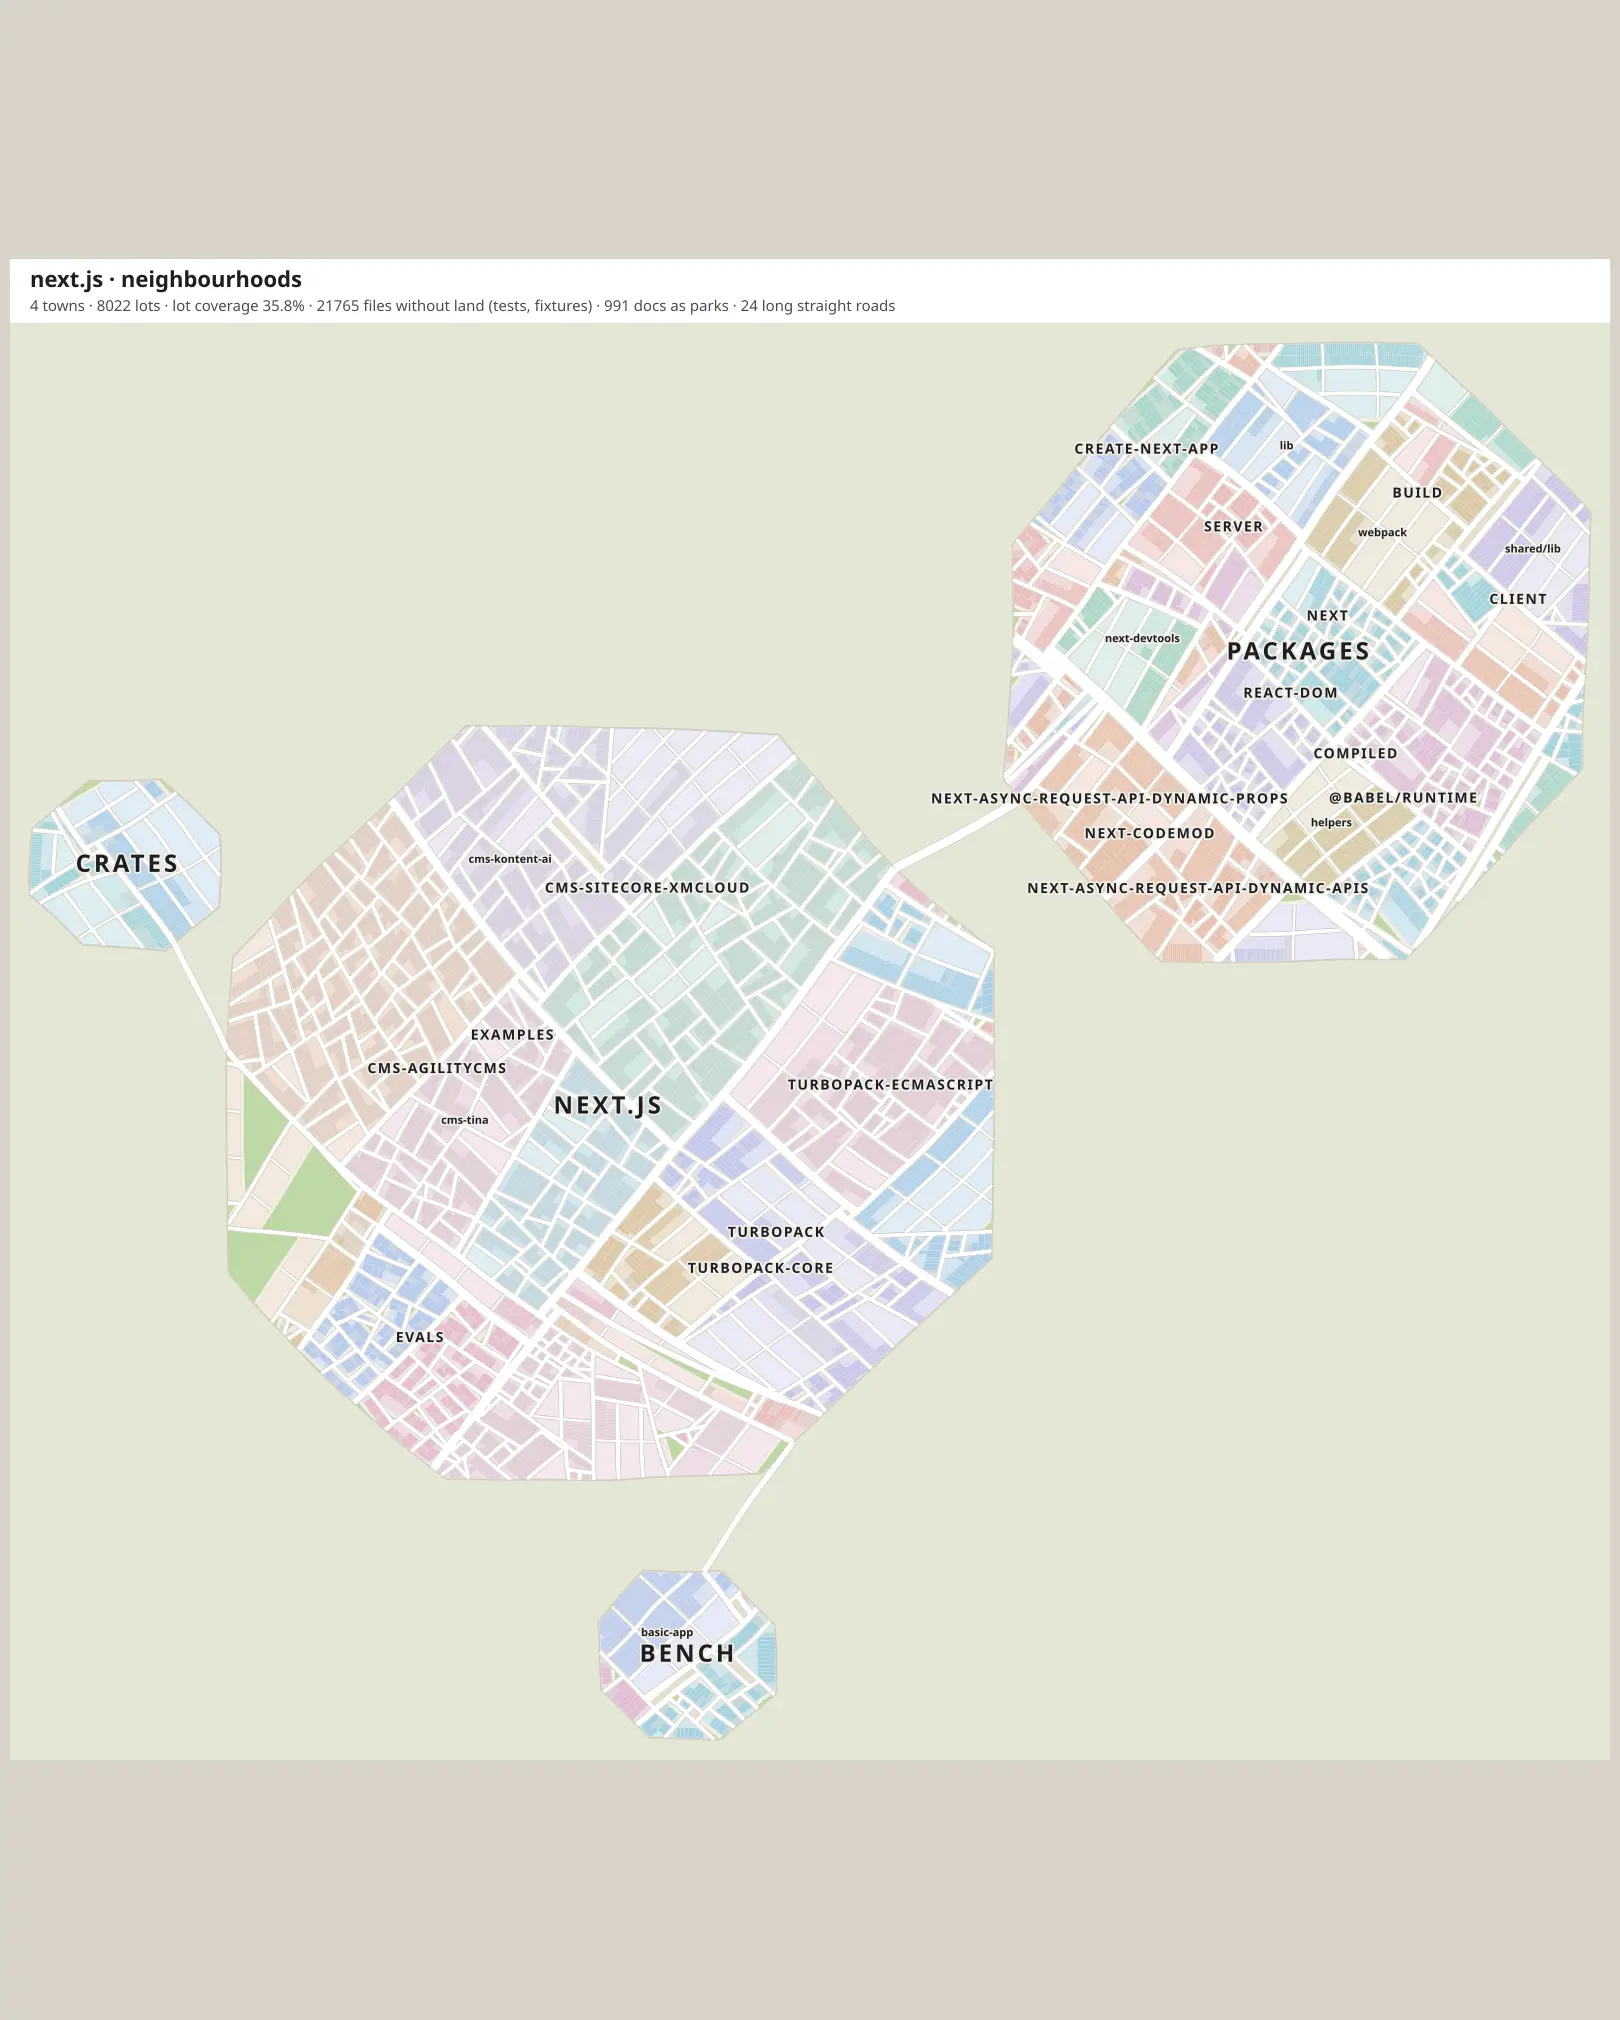
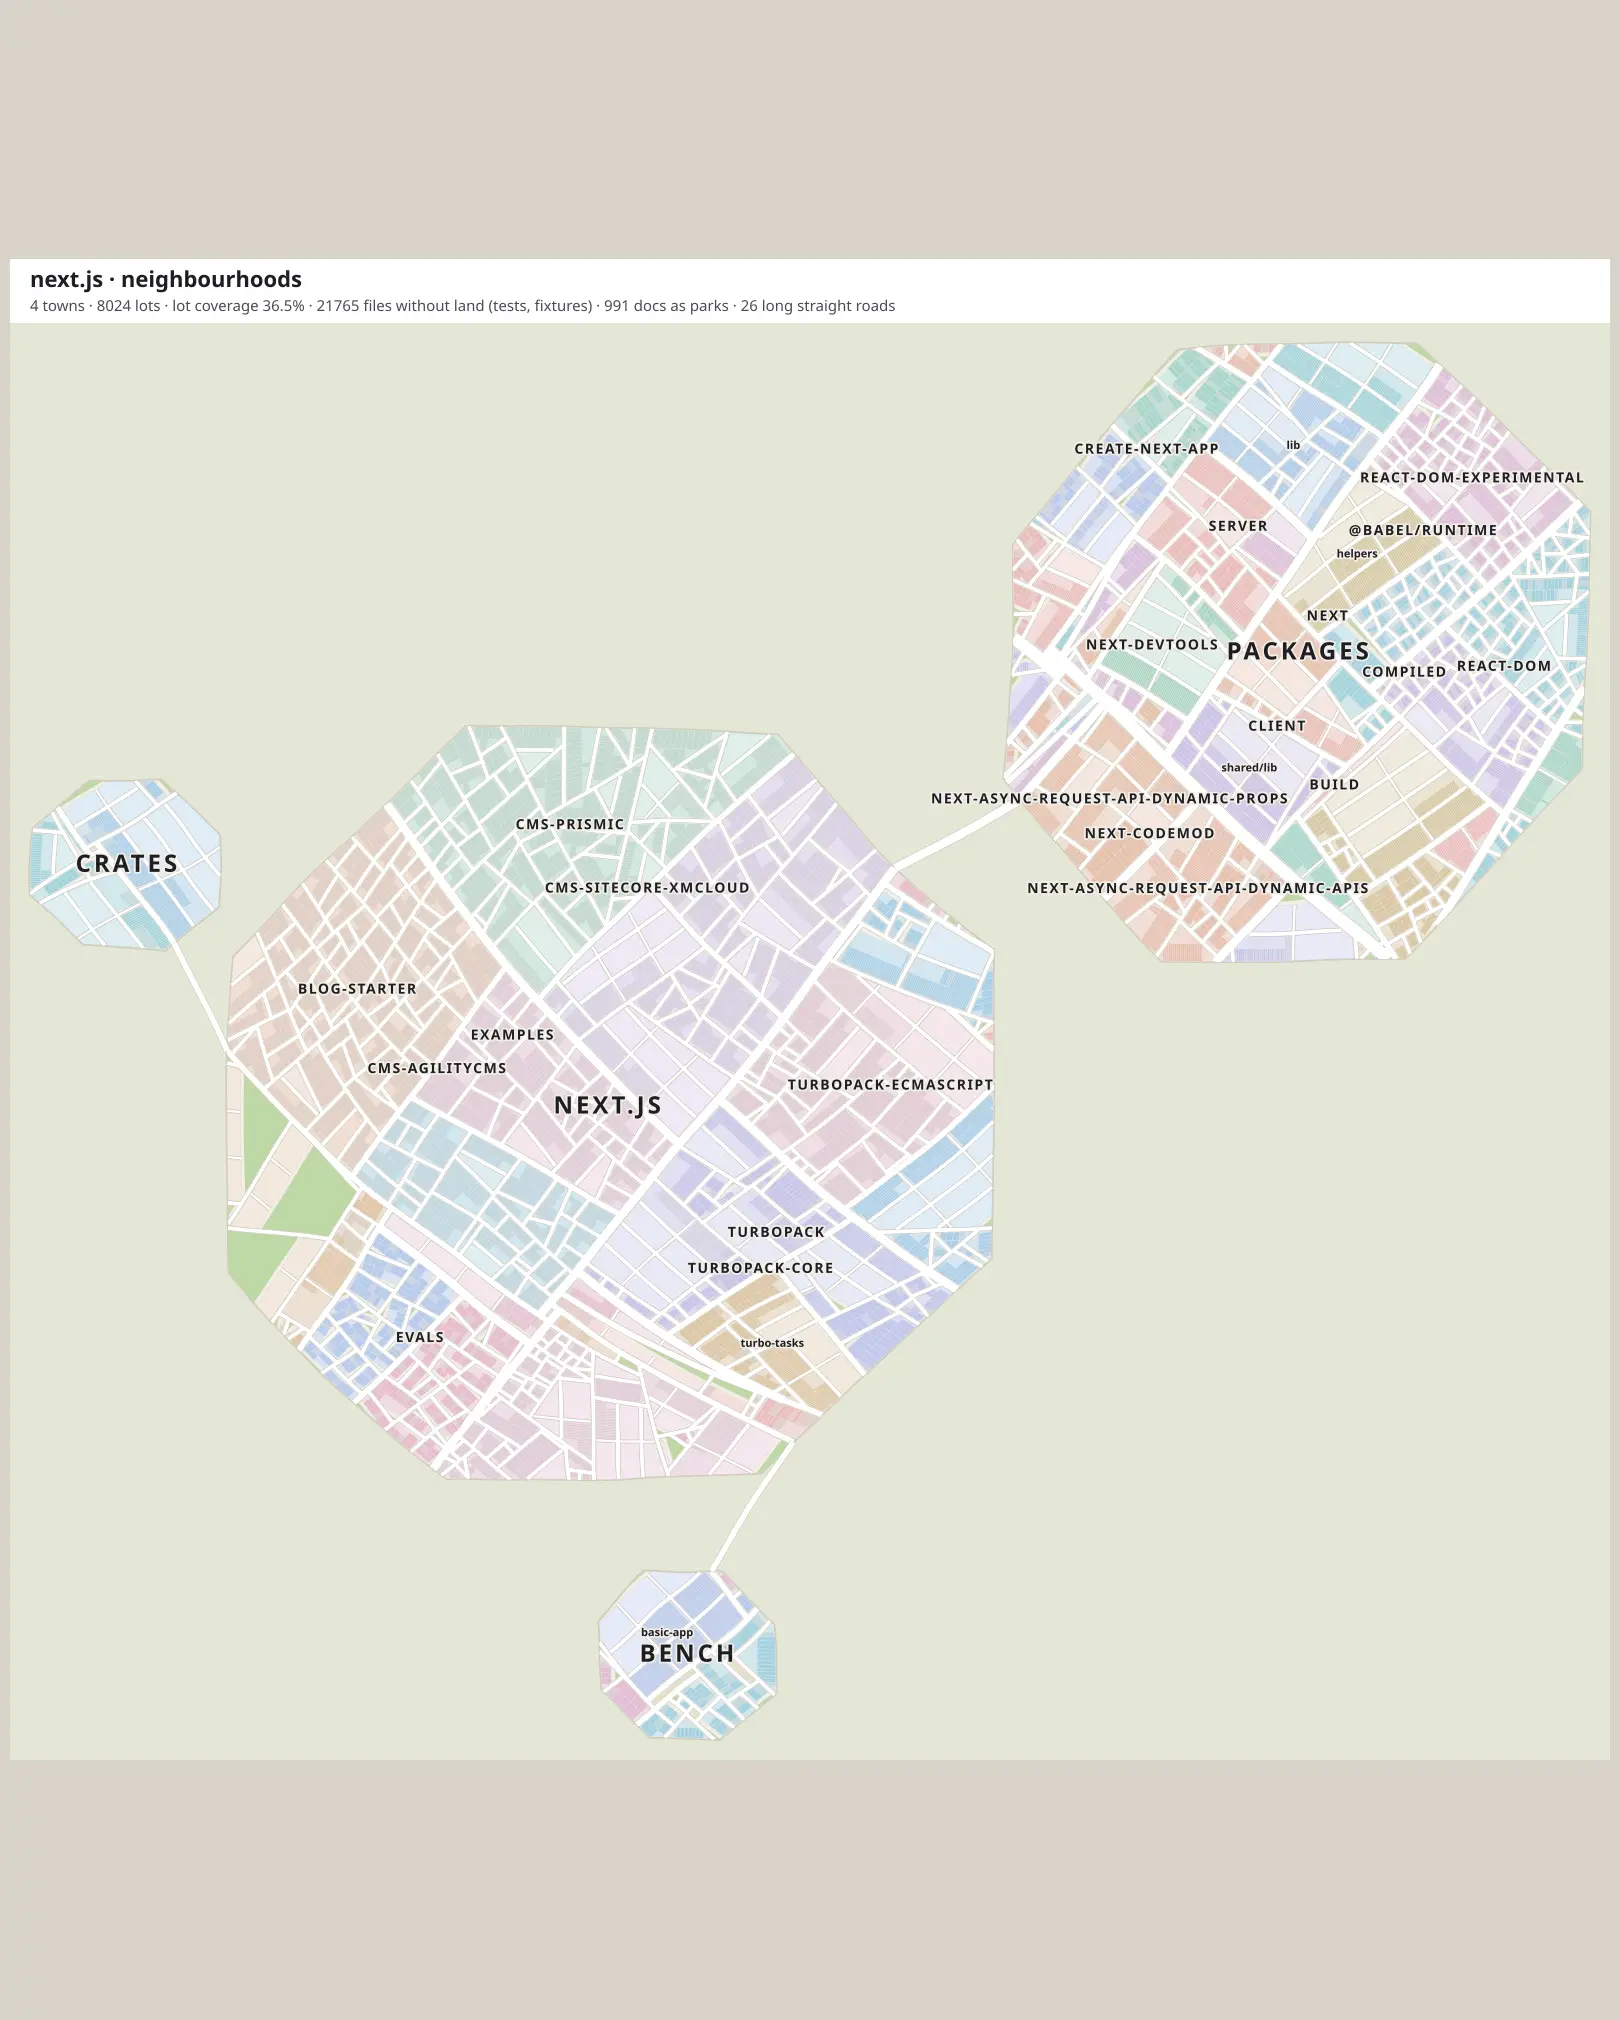
Jog only top-level cuts by default

Changed region(s): [[0.1235, 0.3431, 0.6173, 0.7173], [0.6481, 0.1559, 0.9877, 0.4678], [0.3704, 0.7485, 0.463, 0.8421]]

diff --git a/docs/research/city-layout/variants/town.ts b/docs/research/city-layout/variants/town.ts
@@ -113,8 +113,8 @@ export interface Options {
   /** The land dimension: land uses that take no land (tests and fixtures by default). */
   noLand: LandUse[];
   order: "centre-out" | "first-seen";
-  /** Jogging cuts: long cuts whose sides split again become pinwheels round a plaza. */
-  jog: boolean;
+  /** Jogging cuts: long cuts whose sides split again become pinwheels round a plaza; everywhere or top-level only. */
+  jog: "off" | "top-level" | "all";
   warp: boolean;
 }
 
@@ -510,7 +510,9 @@ export function layoutTown(
     district: string,
   ): boolean => {
     const { rec: r, left, right } = decision;
-    if (!options.jog || left.length < 2 || right.length < 2) return false;
+    if (options.jog === "off" || left.length < 2 || right.length < 2) return false;
+    // Top-level cuts divide the town's top-level folders: the root's own cuts, before any child folder's.
+    if (options.jog === "top-level" && !(key === root.path || key.startsWith(`${root.path}>`))) return false;
     const seg = chord(poly.p, r.nx, r.ny, r.c);
     const diameter = 2 * Math.sqrt(town.stats.landArea / Math.PI);
     if (!seg || Math.hypot(seg[1].x - seg[0].x, seg[1].y - seg[0].y) < LONG_CUT * diameter) return false;

diff --git a/docs/research/city-layout/variants/towns.ts b/docs/research/city-layout/variants/towns.ts
@@ -18,7 +18,7 @@ const PRIVATE = new Set(
         .filter(Boolean)
     : [],
 );
-const BASE: Options = { density: 0.5, order: "centre-out", warp: true, jog: true, noLand: DEFAULT_NO_LAND };
+const BASE: Options = { density: 0.5, order: "centre-out", warp: true, jog: "top-level", noLand: DEFAULT_NO_LAND };
 
 interface Shot {
   caption: string;
@@ -68,8 +68,9 @@ const SECTIONS: Record<string, { repos: string[]; shots: Shot[] }> = {
   jog: {
     repos: ["next.js", "react", "home-assistant", "takken.io"],
     shots: [
-      { caption: "straight cuts (STATE A)", options: { ...BASE, jog: false }, camera: "plan" },
-      { caption: "jogging cuts (pinwheels round plazas)", options: BASE, camera: "plan" },
+      { caption: "straight cuts (STATE A)", options: { ...BASE, jog: "off" }, camera: "plan" },
+      { caption: "top-level cuts jog", options: BASE, camera: "plan" },
+      { caption: "every long cut jogs", options: { ...BASE, jog: "all" }, camera: "plan" },
     ],
   },
   hero: {

diff --git a/docs/research/city-layout/variants/history.ts b/docs/research/city-layout/variants/history.ts
@@ -332,7 +332,7 @@ if (stepMode) {
               live.map((f) => f.path),
             ),
           },
-          { density: 0.5, order: "centre-out", warp: true, jog: true, noLand: ["tests", "fixtures"] },
+          { density: 0.5, order: "centre-out", warp: true, jog: "top-level", noLand: ["tests", "fixtures"] },
           mode === "plat" ? regionPlat : emptyRegionPlat(),
         );
         const liveLots = region.towns.flatMap((town) => town.lots.filter((l) => !l.vacant));
@@ -432,7 +432,7 @@ if (filmMode) {
     density: 0.5,
     order: "centre-out" as const,
     warp: true,
-    jog: true,
+    jog: "top-level" as const,
     noLand: ["tests", "fixtures"] as LandUse[],
   };
   for (const frame of frames) {

diff --git a/docs/research/city-layout/variants/README.md b/docs/research/city-layout/variants/README.md
@@ -44,16 +44,16 @@ Sheets: `img/towns-towns-<repo>.webp` (plan), `img/towns-density-<repo>.webp` (3
 
 | Repo           | Lots   | Lot coverage of land | Local street share | Long straight roads | Lots without room |
 | -------------- | ------ | -------------------- | ------------------ | ------------------- | ----------------- |
-| takken.io      | 244    | 21.8%                | 88%                | 9                   | 0                 |
-| react          | 2,019  | 39.1%                | 76%                | 10                  | 5                 |
-| redux          | 92     | 17.2%                | 80%                | 5                   | 0                 |
-| next.js        | 8,032  | 37.5%                | 81%                | 24                  | 8                 |
-| game-ci-cli    | 702    | 28%                  | 80%                | 6                   | 0                 |
-| livediagram    | 4,121  | 36.3%                | 74%                | 9                   | 10                |
-| studio-worker  | 101    | 27.7%                | 100%               | 3                   | 0                 |
-| home-assistant | 13,198 | 45%                  | 80%                | 2                   | 8                 |
-| typescript     | 929    | 38.5%                | 80%                | 8                   | 1                 |
-| rust           | 6,237  | 31.3%                | 72%                | 3                   | 23                |
+| takken.io      | 244    | 22.1%                | 88%                | 9                   | 0                 |
+| react          | 2,018  | 35.5%                | 75%                | 7                   | 6                 |
+| redux          | 92     | 13.2%                | 80%                | 5                   | 0                 |
+| next.js        | 8,024  | 36.5%                | 80%                | 26                  | 16                |
+| game-ci-cli    | 702    | 26%                  | 80%                | 7                   | 0                 |
+| livediagram    | 4,122  | 36.9%                | 72%                | 11                  | 9                 |
+| studio-worker  | 101    | 26.1%                | 100%               | 3                   | 0                 |
+| home-assistant | 13,193 | 43.7%                | 80%                | 3                   | 13                |
+| typescript     | 929    | 37.6%                | 80%                | 8                   | 1                 |
+| rust           | 6,243  | 29%                  | 71%                | 5                   | 17                |
 
 "Long straight roads" counts roads longer than 45% of their town's diameter that stay within 0.5% of a straight line.
 Small towns still have too many: the warp bends less than a cut is long, and every cut runs wall to wall.
@@ -82,7 +82,7 @@ Stability, share of surviving lots that moved more than 2 units, per first-paren
 What still moves:
 
 - **Cuts outgrowing their band.** Every cut that moved sits in the top two folder levels: 19 in takken.io's 239
-  commits, 5 in React's 1,200. The spec's fixed frame says these never move outside an archetype switch.
+  commits, 5 in React's 1,200. The owner chose to let them move with the band rather than freeze them.
 - **Unflattening.** takken.io began as one neighbourhood and re-laid once (2024) when it outgrew the flatten band: an
   archetype switch, which the old-town island rule will keep. Cutting the root from day one instead moved more (1.7%
   per commit, 12.6% on deletions), as tiny districts kept outgrowing their bands.
@@ -90,24 +90,26 @@ What still moves:
 
 ### Jogging cuts
 
-A long cut (at least 30% of the town's diameter) with two or more items on each side becomes a pinwheel: both sides
+A long cut (at least 30% of the town's diameter) with two or more items on each side becomes a pinwheel (by default only
+the cuts between a town's top-level folders, `jog: "top-level"`; `"all"` jogs every long cut): both sides
 split square to it, and where those cross cuts fall at least 2 u apart, the long cut steps 3 u sideways between them.
-Four roads end in T-junctions round a plaza; every piece stays convex. `Options.jog` switches it; the plat remembers
-it through the same cut records. `img/towns-jog-<repo>.webp` sets straight cuts (STATE A) beside jogging cuts.
+Four roads end in T-junctions round a plaza; every piece stays convex. `Options.jog` (`off`, `top-level`, `all`) sets it; the plat remembers
+it through the same cut records. `img/towns-jog-<repo>.webp` sets straight cuts (STATE A), top-level jogs and every long cut jogging side by side.
+Top-level only keeps STATE A's straight streets inside districts and breaks only the cross-town roads.
 
-| Repo           | Pinwheels     | Long straight roads, straight | Long straight roads, jogging |
-| -------------- | ------------- | ----------------------------- | ---------------------------- |
-| next.js        | 13            | 24                            | 24                           |
-| react          | (not counted) | 10                            | 7                            |
-| home-assistant | 5             | 2                             | 5                            |
-| takken.io      | 1             | 9                             | 9                            |
+| Repo           | Long straight roads, straight | Top-level jogs | Every long cut jogs | Lots without room (straight, top-level, all) |
+| -------------- | ----------------------------- | -------------- | ------------------- | -------------------------------------------- |
+| next.js        | 24                            | 26             | 24                  | 8, 16, 18                                    |
+| react          | 10                            | 7              | 7                   | 5, 6, 5                                      |
+| home-assistant | 2                             | 3              | 5                   | 8, 13, 11                                    |
+| takken.io      | 9                             | 9              | 9                   | 0, 0, 0                                      |
 
 - The count barely moves: a pinwheel road still runs from the town edge to just past the middle (about 55% of a
   top-level cut), so one long road becomes two half roads that both pass the 45% threshold.
 - Cuts with a single item on one side (one heavy folder against the rest) cannot pinwheel and stay straight.
 - Forcing the cross cuts square rearranges the districts: jogging changes STATE A's layout as well as its roads.
 - Stability holds: React 0.1% per commit and 1.2% on deleting commits; takken.io 1.2% and 5.9%.
-- Lots without room rise slightly (next.js 8 to 18): the plaza and the step take land from pieces sized without them.
+- Lots without room rise slightly: the plaza and the step take land from pieces sized without them.
 
 ## Sheets
 

diff --git a/docs/specs/006-ground-plan/ground-plan.md b/docs/specs/006-ground-plan/ground-plan.md
@@ -104,14 +104,14 @@ is therefore readable as distance from the core, and newcomers join the edges.
   contiguous run.
 - Chains of folders without land of their own and with a single child collapse into one.
 - Land between collectors or bigger roads is a ward.
-- Long cuts jog. A cut at least 30% of its town's diameter long, with two or more items on each side, becomes a
+- Long top-level cuts jog. A cut between a town's top-level folders, at least 30% of the town's diameter long, with two or more items on each side, becomes a
   pinwheel: each side splits again square to it, and where those cross cuts fall at least 2 u apart, the long cut steps
   sideways by 3 u between them. The four roads end in T-junctions round a plaza, and each of the four pieces is the
   land within two half-planes.
 - The plat remembers every cut: its line, its class, the items on each side, and each side's band (1.35 times its
   demand at the last cut). A newcomer joins the side with more spare band. A cut moves, to the split of today's demand,
-  only when a side outgrows its band. The cuts of the top two folder levels form the fixed frame and only move on an
-  archetype switch.
+  only when a side outgrows its band. This holds at every level, the top two
+  folder levels included.
 - The plat remembers every neighbourhood: its grid origin, angle and pitch, its lot class, its park line, and the slot
   of every lot. Lots keep their slots; a newcomer takes the first free slot after its folder's last lot. Cells come
   and go only with the neighbourhood's land; a lot whose slot is gone takes a free one.
